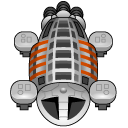
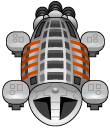
updating images of ships/laser

diff --git a/index.html b/index.html
@@ -15,7 +15,9 @@
     <script src="js/vendor/paper.js"></script>
     <script src="js/vendor/require.js" data-main="js/main"></script>
 
-    <!-- Images taken from http://findicons.com/pack/1266/baby_spaceships -->
+    <!-- Taken from http://omnigeekmedia.com/ -->
+    <img src="img/s0.png" id="s0">
+    <!-- Taken from http://findicons.com/pack/1266/baby_spaceships -->
     <!-- All credit to Talos Tsui -->
     <img src="img/s1.png" id="s1">
     <img src="img/s2.png" id="s2">

diff --git a/js/game.js b/js/game.js
@@ -74,7 +74,7 @@ define(function(require) {
             }
 
             if(Key.isDown('space') && e.time - this.lastBulletTime >= C.BULLET_SPAWN_TIME ){
-                var copy = new Spaceship(new Point(player.position.x+100,player.position.y),'s1');
+                var copy = new Spaceship(new Point(player.position.x+100,player.position.y),'s0');
                 copy.shoot();
                 this.lastBulletTime = e.time;
             }
